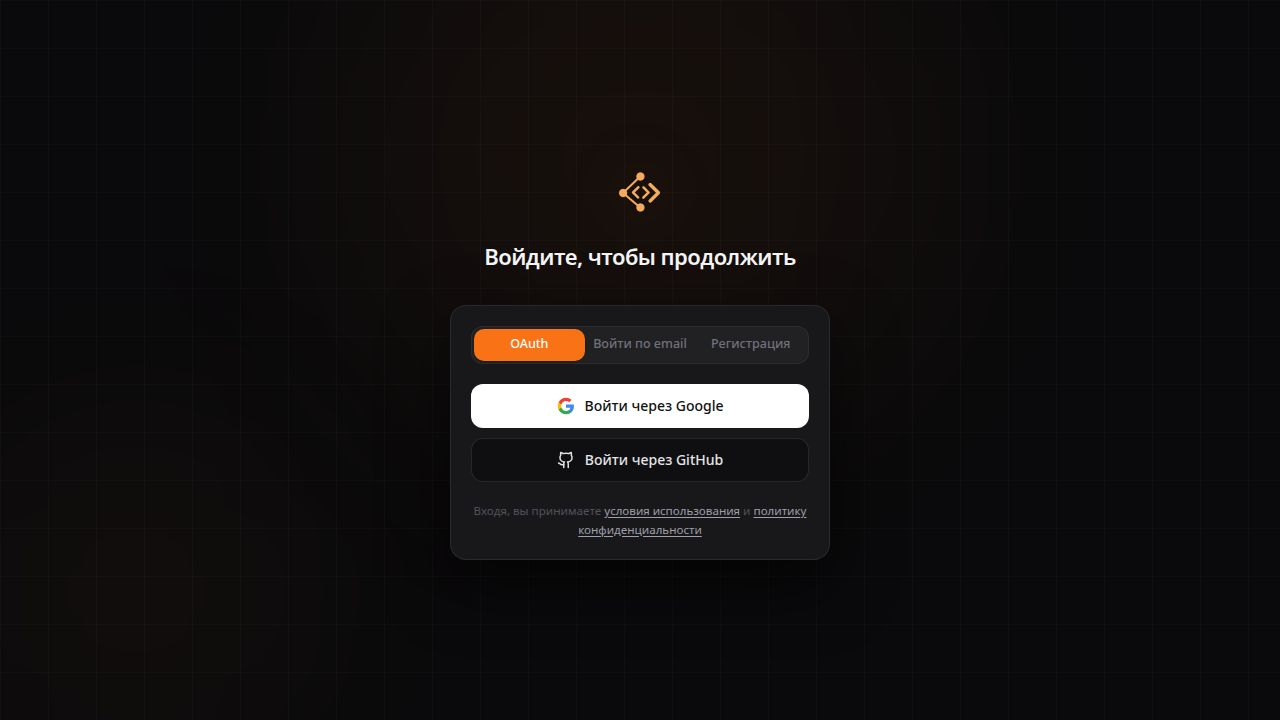
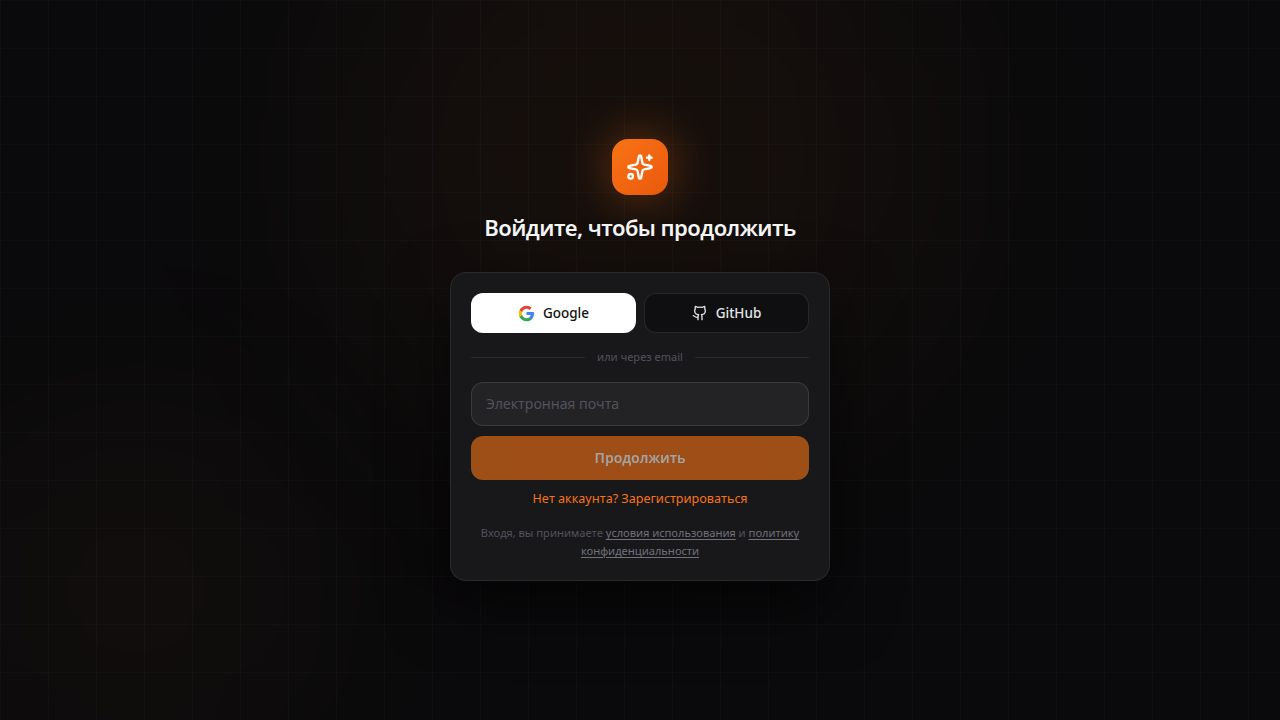
Update buttons to navigate to sign-in page instead of opening modals
Replaces Clerk's `SignUpButton` with modal mode with direct navigation to the `/sign-in` route in `home.tsx` to resolve issues with modals not working in iframes.

Replit-Commit-Author: Agent
Replit-Commit-Session-Id: 21df2799-6290-4a73-b897-46c6b196b61d
Replit-Commit-Checkpoint-Type: full_checkpoint
Replit-Commit-Event-Id: 4db53996-faca-4269-b19d-d6513690f592
Replit-Commit-Screenshot-Url: https://storage.googleapis.com/screenshot-production-us-central1/ae6cd0a9-5cbf-463d-a035-6297eac6b094/21df2799-6290-4a73-b897-46c6b196b61d/pcGsqc2
Replit-Helium-Checkpoint-Created: true

Changed region(s): [[0.3438, 0.1833, 0.6562, 0.7944]]

diff --git a/artifacts/codesync/src/pages/home.tsx b/artifacts/codesync/src/pages/home.tsx
@@ -1,7 +1,7 @@
 import { useState, useEffect, useRef, type RefObject, type ReactElement } from "react";
 import { useLocation } from "wouter";
 import { motion, useInView } from "framer-motion";
-import { useUser, SignUpButton } from "@clerk/react";
+import { useUser } from "@clerk/react";
 import { Logo } from "@/components/Logo";
 import { GuestModal } from "@/components/GuestModal";
 import { useGithubRelease, detectUserPlatform, formatBytes } from "@/hooks/useGithubRelease";
@@ -524,18 +524,17 @@ export default function Home() {
             >
               Гостевой режим
             </button>
-            <SignUpButton mode="modal">
-              <button
-                className="text-sm px-5 py-2 rounded-lg font-semibold transition-all hover:brightness-110"
-                style={{
-                  background: "#fff", color: "#000",
-                  border: "none", cursor: "pointer",
-                  boxShadow: "0 2px 16px rgba(255,255,255,0.15)",
-                }}
-              >
-                Начать →
-              </button>
-            </SignUpButton>
+            <button
+              onClick={() => setLocation("/sign-in")}
+              className="text-sm px-5 py-2 rounded-lg font-semibold transition-all hover:brightness-110"
+              style={{
+                background: "#fff", color: "#000",
+                border: "none", cursor: "pointer",
+                boxShadow: "0 2px 16px rgba(255,255,255,0.15)",
+              }}
+            >
+              Начать →
+            </button>
           </motion.div>
         </nav>
 
@@ -614,18 +613,17 @@ export default function Home() {
                 transition={{ delay: 0.55, duration: 0.5 }}
                 className="flex items-center gap-3 flex-wrap"
               >
-                <SignUpButton mode="modal">
-                  <button
-                    className="px-6 py-3 rounded-xl text-sm font-semibold transition-all hover:opacity-90 active:scale-95"
-                    style={{
-                      background: "#fff", color: "#000",
-                      border: "none", cursor: "pointer",
-                      boxShadow: "0 0 40px rgba(255,255,255,0.1)",
-                    }}
-                  >
-                    Создать комнату
-                  </button>
-                </SignUpButton>
+                <button
+                  onClick={() => setLocation("/sign-in")}
+                  className="px-6 py-3 rounded-xl text-sm font-semibold transition-all hover:opacity-90 active:scale-95"
+                  style={{
+                    background: "#fff", color: "#000",
+                    border: "none", cursor: "pointer",
+                    boxShadow: "0 0 40px rgba(255,255,255,0.1)",
+                  }}
+                >
+                  Создать комнату
+                </button>
                 <button
                   onClick={() => setShowGuestModal(true)}
                   className="px-6 py-3 rounded-xl text-sm font-semibold transition-all hover:bg-white/6"